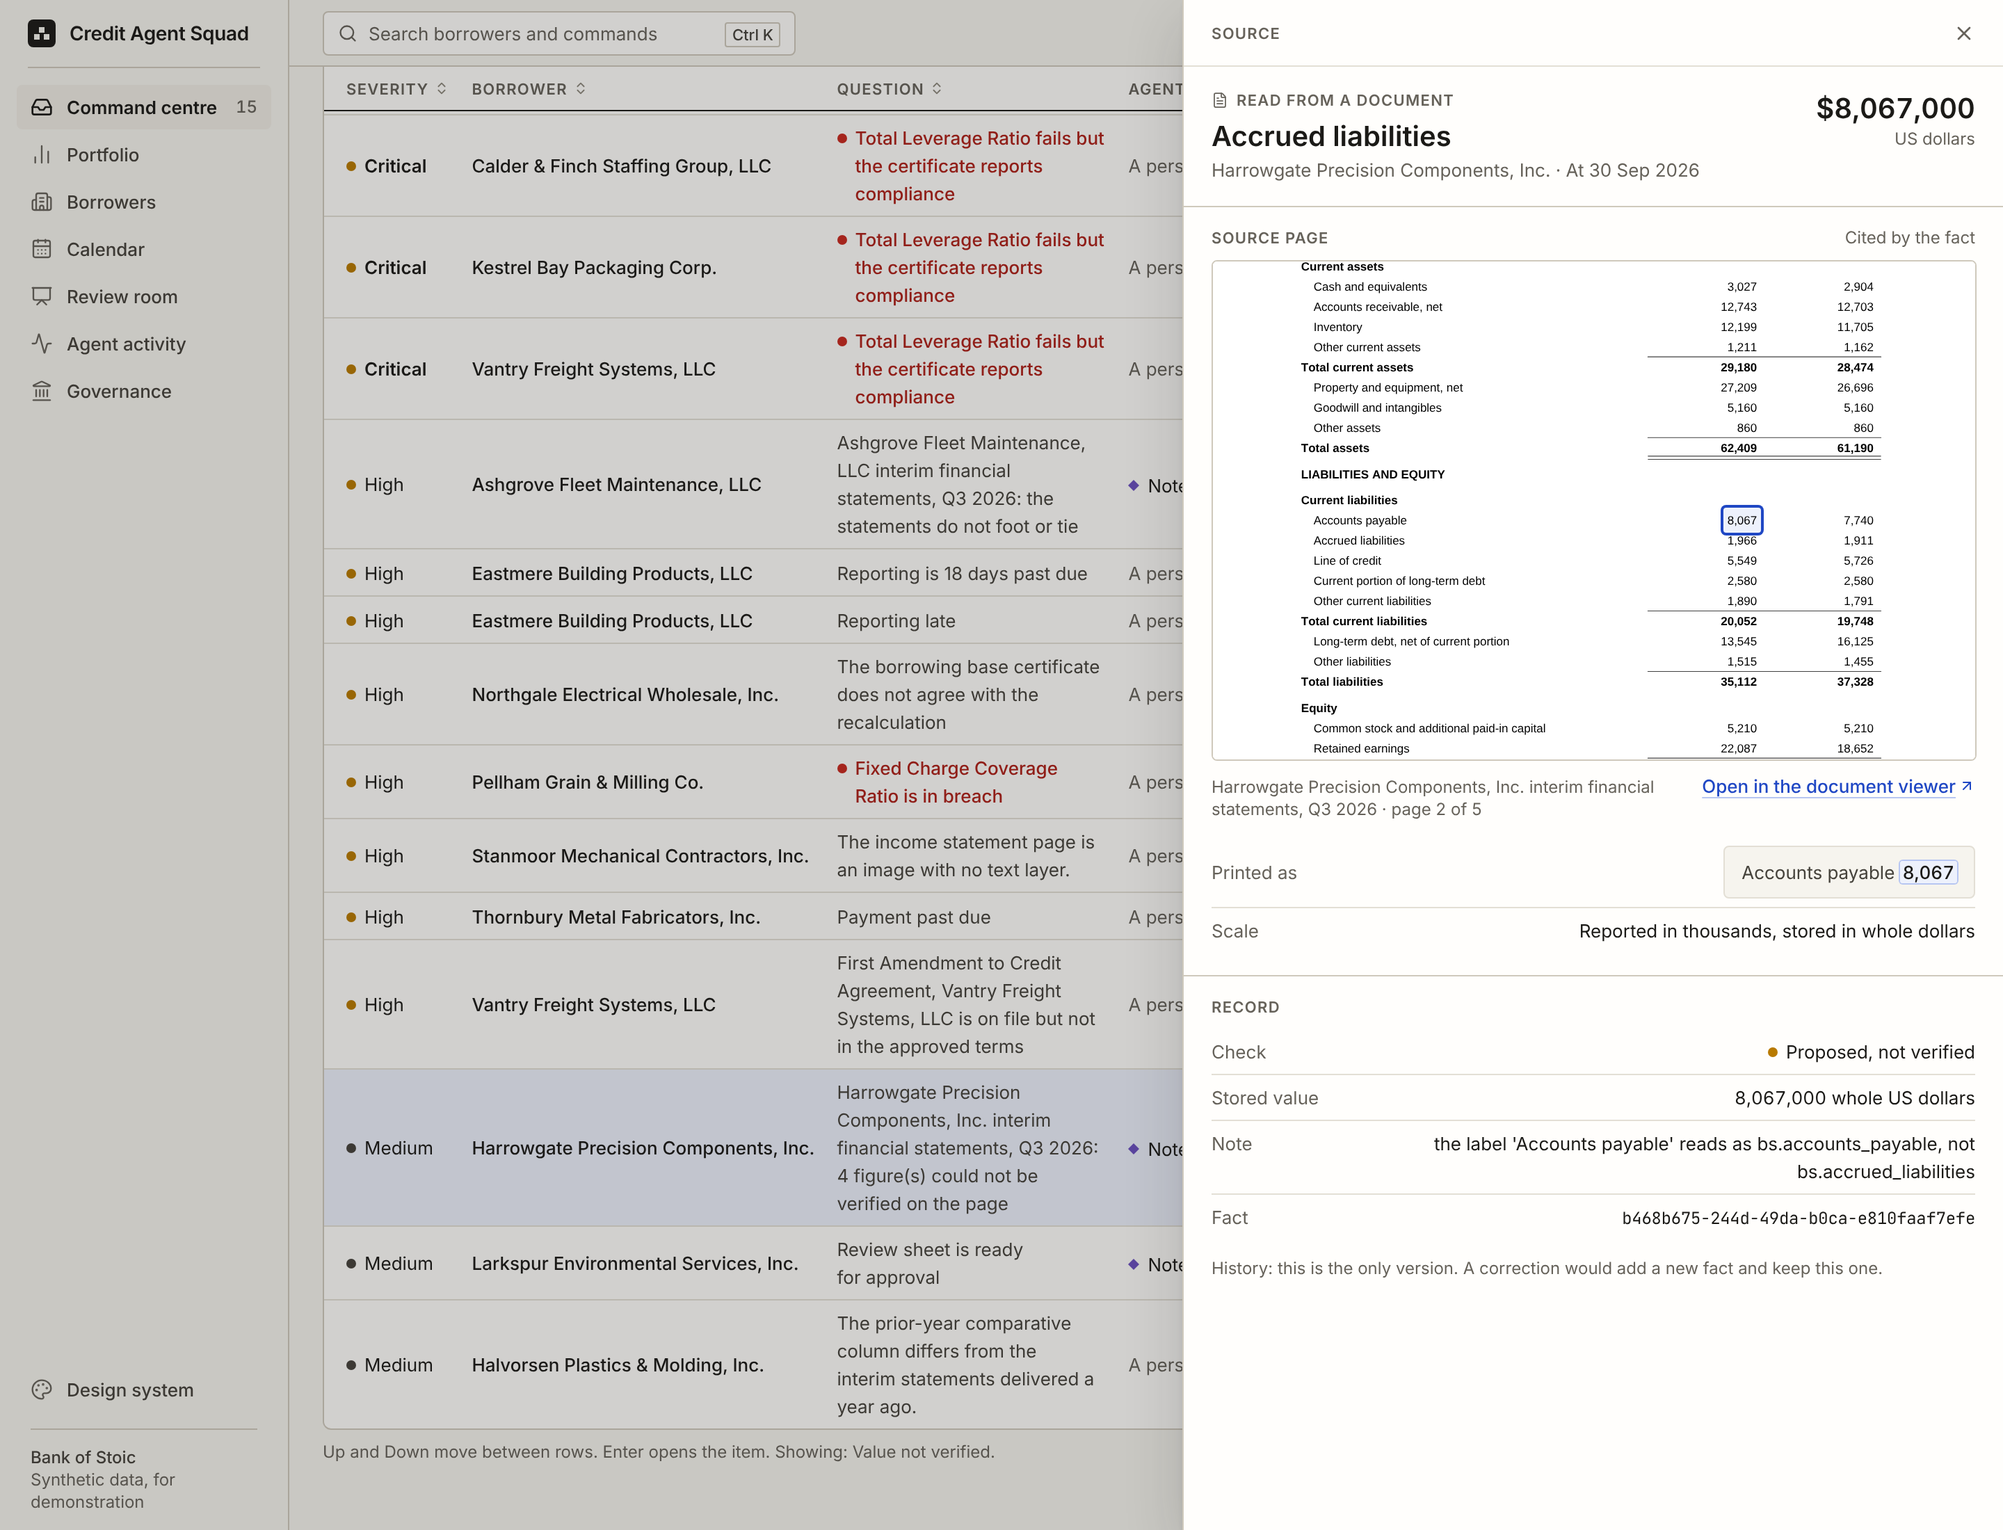
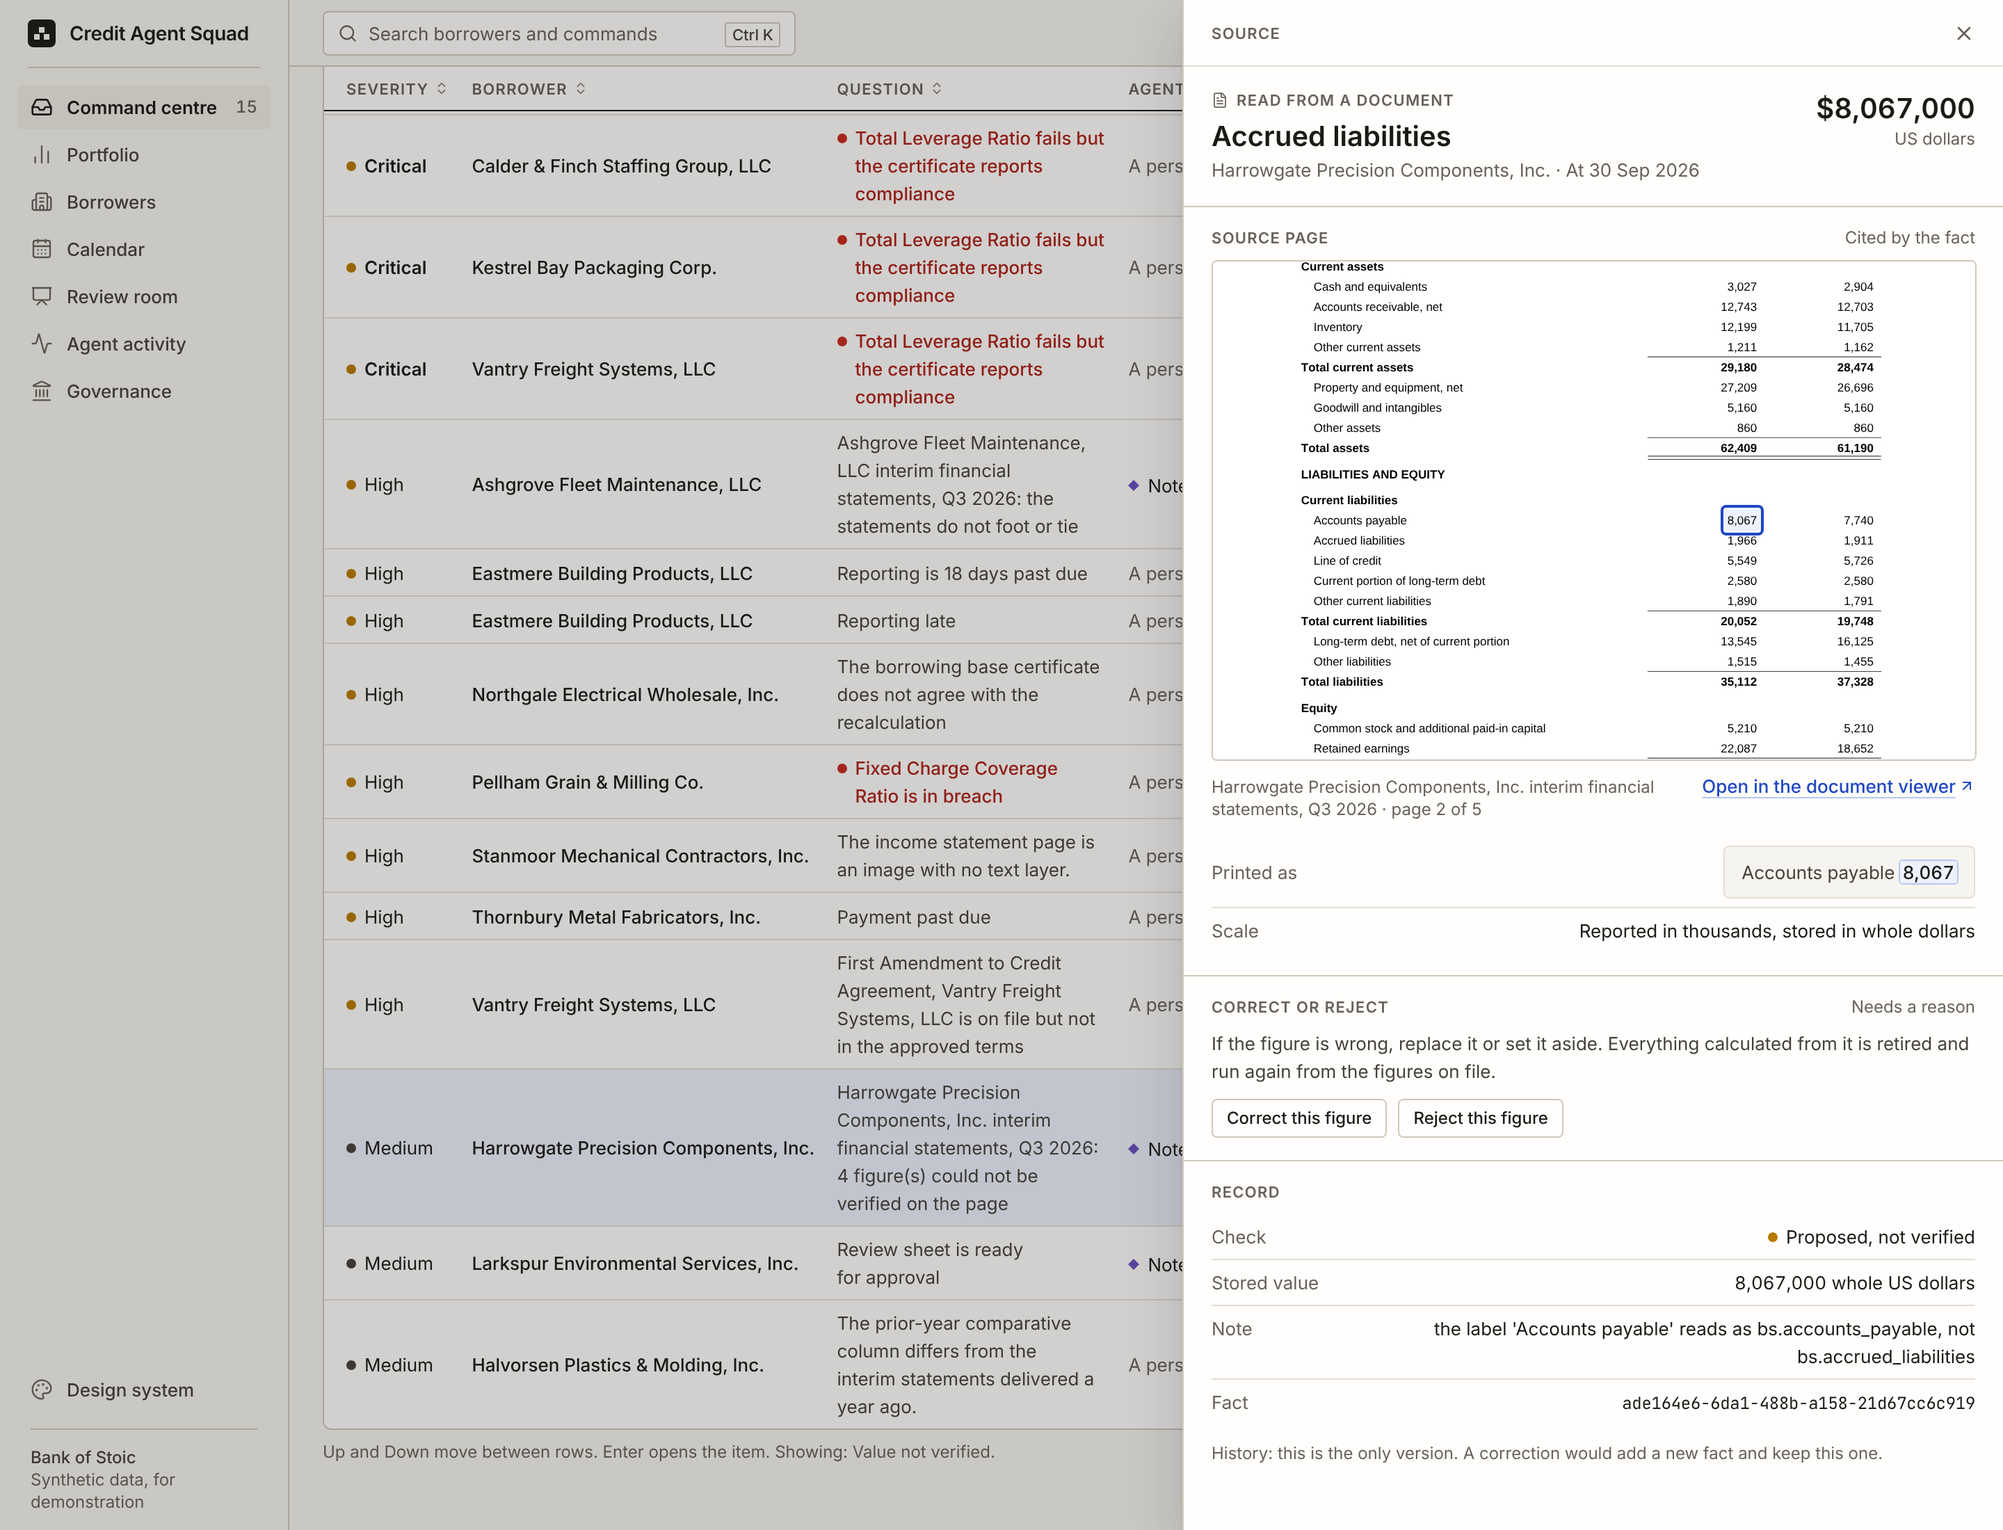
feat(m5): correct or reject a figure from the source drawer
For a person whose role may confirm a spread, the source drawer now offers
"Correct this figure" and "Reject this figure" on the figure it shows, each
with a required reason. A calculated figure offers neither and says "Calculated
by code; correct the figure it was calculated from"; a superseded or rejected
version leads to the figure on file now.

After a correction the drawer shows the new figure (itself a figure with a
source) and what code recalculated, including each covenant whose outcome
changed. Every query is read again, so the screen beneath shows the new figure.

Claude-Session: https://claude.ai/code/session_01LdgDGWNkubuJiXXErhFMLq

Changed region(s): [[0.5938, 0.6491, 1.0, 0.9273], [0.7812, 0.8655, 0.8125, 0.8964], [0.7188, 0.8655, 0.75, 0.8964]]

diff --git a/frontend/src/source/ChangeFigure.test.tsx b/frontend/src/source/ChangeFigure.test.tsx
@@ -1,0 +1,153 @@
+import { QueryClient, QueryClientProvider } from '@tanstack/react-query';
+import { render, screen, within } from '@testing-library/react';
+import userEvent from '@testing-library/user-event';
+import { afterEach, describe, expect, it, vi } from 'vitest';
+import type { FactSource } from '@/api/schema';
+import { ChangeFigure } from './ChangeFigure';
+import { SourceContext, type SourceRef } from './context';
+
+const source = (over: Partial<FactSource['fact']> = {}, history: FactSource['history'] = []): FactSource => ({
+  fact: {
+    id: 'f-tax',
+    key: 'sup.cash_taxes_paid',
+    label: 'Cash paid for income taxes',
+    value: '1089000',
+    unit: 'usd',
+    kind: 'extracted',
+    status: 'verified',
+    period_end: '2026-09-30',
+    months: 9,
+    borrower_id: 'b-1',
+    document_id: 'd-1',
+    page: 5,
+    calc_run_id: null,
+    quote: '1,089',
+    label_text: 'Cash paid for income taxes',
+    scale_as_reported: 1000,
+    connector: null,
+    record_ref: null,
+    as_of: null,
+    entered_by: null,
+    reason: null,
+    note: null,
+    confirmed_by: null,
+    confirmed_at: null,
+    created_at: '2026-11-17T08:00:00',
+    agent_run_id: null,
+    ...over,
+  },
+  borrower: { id: 'b-1', name: 'Halvorsen Plastics & Molding, Inc.', code: 'halvorsen-plastics' },
+  page: null,
+  calculation: null,
+  clause: null,
+  history,
+});
+
+function mockPosts(routes: Record<string, { status?: number; body: unknown }>) {
+  const calls: Array<{ url: string; body: unknown }> = [];
+  vi.stubGlobal(
+    'fetch',
+    vi.fn(async (url: string, init?: RequestInit) => {
+      if (init?.method === 'POST') calls.push({ url, body: JSON.parse(String(init.body)) });
+      const hit = Object.entries(routes).find(([path]) => url.startsWith(path));
+      const status = hit?.[1].status ?? (hit ? 200 : 404);
+      return { ok: status >= 200 && status < 300, status, text: async () => JSON.stringify(hit?.[1].body ?? { detail: 'Not found' }) } as Response;
+    }),
+  );
+  return calls;
+}
+
+function show(data: FactSource, open: (ref: SourceRef) => void = () => {}) {
+  const client = new QueryClient({ defaultOptions: { queries: { retry: false } } });
+  return render(
+    <QueryClientProvider client={client}>
+      <SourceContext.Provider value={{ open, close: () => {}, current: null }}>
+        <ChangeFigure data={data} />
+      </SourceContext.Provider>
+    </QueryClientProvider>,
+  );
+}
+
+afterEach(() => vi.unstubAllGlobals());
+
+describe('correcting or rejecting the figure in the source drawer', () => {
+  it('offers neither for a calculated figure, and says where the correction belongs', () => {
+    show(source({ kind: 'calculated', calc_run_id: 'c-1', document_id: null, page: null }));
+    expect(screen.getByText(/^Calculated by code; correct the figure it was calculated from\./)).toBeInTheDocument();
+    expect(screen.queryByRole('button')).toBeNull();
+  });
+
+  it('offers neither for a superseded version, and leads to the figure on file now', async () => {
+    const open = vi.fn();
+    show(
+      source({ status: 'superseded' }, [
+        { id: 'f-new', value: '4356000', unit: 'usd', kind: 'manual', status: 'confirmed', created_at: '2026-11-17T09:00:00', reason: 'Notes page', relation: 'later', entered_by: 'Priya Raman' },
+        { id: 'f-tax', value: '1089000', unit: 'usd', kind: 'extracted', status: 'superseded', created_at: '2026-11-17T08:00:00', reason: null, relation: 'this', entered_by: null },
+      ]),
+      open,
+    );
+    expect(screen.getByText('This version is superseded. Only the figure on file now can be corrected or rejected.')).toBeInTheDocument();
+    expect(screen.queryByRole('button', { name: /Correct this figure|Reject this figure/ })).toBeNull();
+    await userEvent.click(screen.getByRole('button', { name: 'Open the figure on file now' }));
+    expect(open).toHaveBeenCalledWith({ type: 'fact', id: 'f-new' });
+  });
+
+  it('records a correction with its reason, then shows the new figure and what was recalculated', async () => {
+    const open = vi.fn();
+    const calls = mockPosts({
+      '/api/v1/facts/f-tax/correct': {
+        body: {
+          id: 'f-new',
+          borrower_id: 'b-1',
+          key: 'sup.cash_taxes_paid',
+          value: '4356000',
+          unit: 'usd',
+          kind: 'manual',
+          status: 'confirmed',
+          period_end: '2026-09-30',
+          months: 9,
+          recalculation: { retired: 19, totals: 'recalculated', metrics: [], covenants: [{ facility_id: 'l-1', period_end: '2026-09-30', covenant_id: 'fccr', before: 'compliant', after: 'breach_reported_compliant' }] },
+        },
+      },
+      '/api/v1/ui/borrowers/b-1/covenants': { body: { tests: [{ covenant_id: 'fccr', covenant_name: 'Fixed Charge Coverage Ratio' }], facts: {} } },
+    });
+    show(source(), open);
+    await userEvent.click(screen.getByRole('button', { name: 'Correct this figure' }));
+    const form = screen.getByRole('form', { name: 'Correct Cash paid for income taxes' });
+    const value = within(form).getByLabelText('Value, in whole US dollars');
+    expect(value).toHaveValue('1089000');
+    await userEvent.clear(value);
+    await userEvent.type(value, '4,356,000');
+    await userEvent.type(within(form).getByLabelText('Reason (required)'), 'Notes page reports nine months.');
+    await userEvent.click(within(form).getByRole('button', { name: 'Record the correction' }));
+
+    expect(await screen.findByText('Corrected. On file now:')).toBeInTheDocument();
+    expect(calls).toEqual([{ url: '/api/v1/facts/f-tax/correct', body: { value: '4356000', reason: 'Notes page reports nine months.' } }]);
+    const note = screen.getByRole('status');
+    expect(note).toHaveTextContent('19 results calculated from the old figure were retired.');
+    expect(await within(note).findByRole('listitem', { name: 'Fixed Charge Coverage Ratio, Q3 2026: Compliant → Breach, reported compliant' })).toBeInTheDocument();
+    // The new figure is itself a figure with a source.
+    await userEvent.click(screen.getByRole('button', { name: '$4,356,000, Cash paid for income taxes. Entered by a person. Show source.' }));
+    expect(open).toHaveBeenCalledWith({ type: 'fact', id: 'f-new' });
+  });
+
+  it('will not send a rejection without a reason, and shows the server’s refusal in its own words', async () => {
+    const calls = mockPosts({ '/api/v1/facts/f-tax/reject': { status: 422, body: { detail: 'a calculated figure cannot be rejected; reject the figure it was calculated from' } } });
+    show(source());
+    await userEvent.click(screen.getByRole('button', { name: 'Reject this figure' }));
+    const form = screen.getByRole('form', { name: 'Reject Cash paid for income taxes' });
+    expect(within(form).queryByLabelText(/^Value/)).toBeNull();
+    const reason = within(form).getByLabelText('Reason (required)');
+    expect(reason).toHaveFocus();
+    await userEvent.click(within(form).getByRole('button', { name: 'Record the rejection' }));
+    expect(reason).toHaveAccessibleDescription('A reason is required. It is recorded in the ledger with your name.');
+    expect(calls).toEqual([]);
+
+    await userEvent.type(reason, 'Read from the wrong column.');
+    await userEvent.click(within(form).getByRole('button', { name: 'Record the rejection' }));
+    expect(await within(form).findByRole('alert')).toHaveTextContent(
+      'Not recorded: the server refused this. The server said: “a calculated figure cannot be rejected; reject the figure it was calculated from”',
+    );
+    expect(calls).toEqual([{ url: '/api/v1/facts/f-tax/reject', body: { reason: 'Read from the wrong column.' } }]);
+  });
+});

diff --git a/frontend/src/source/ChangeFigure.tsx b/frontend/src/source/ChangeFigure.tsx
@@ -1,0 +1,122 @@
+import { useState } from 'react';
+import { useCorrectFact, useRejectFact } from '@/api/hooks';
+import type { FactChange, FactSource } from '@/api/schema';
+import { Button, formatFigure, ProvenanceGlyph, StatusDot } from '@/design';
+import { toFact } from '@/domain/labels';
+import { FigureForm } from '@/repair/FigureForm';
+import { RecalculationNote } from '@/repair/RecalculationNote';
+import { useSource } from './context';
+
+const CORRECTABLE = ['proposed', 'verified', 'confirmed'];
+
+/**
+ * Correct or reject the figure on show, for a person whose role may. A calculated figure offers
+ * neither (the API refuses both): the figure it was calculated from is the one to correct. A
+ * correction never edits the fact: a new fact supersedes it and both stay in the history.
+ */
+export function ChangeFigure({ data }: { data: FactSource }) {
+  const { fact } = data;
+  const source = useSource();
+  const correct = useCorrectFact();
+  const reject = useRejectFact();
+  const [mode, setMode] = useState<'correct' | 'reject' | null>(null);
+  const [result, setResult] = useState<{ kind: 'corrected' | 'rejected'; change: FactChange } | null>(null);
+
+  if (result) {
+    const { change } = result;
+    const shown = toFact({ ...fact, ...change, label: fact.label });
+    return (
+      <div className="space-y-2" data-change-result={result.kind}>
+        {result.kind === 'corrected' ? (
+          <p className="flex flex-wrap items-baseline gap-x-1.5 text-body">
+            <StatusDot tone="pass">Corrected. On file now:</StatusDot>
+            <button
+              type="button"
+              aria-label={`${formatFigure(shown.value, shown.unit).text}, ${fact.label}. Entered by a person. Show source.`}
+              onClick={() => source.open({ type: 'fact', id: change.id })}
+              className="-mx-1 inline-flex items-center gap-1 rounded-xs px-1 font-medium text-ink t-colors hover:bg-cobalt-bg hover:text-cobalt-strong"
+            >
+              <span className="tnum">{formatFigure(shown.value, shown.unit).text}</span>
+              <ProvenanceGlyph kind="manual" />
+            </button>
+          </p>
+        ) : (
+          <p className="text-body">
+            <StatusDot tone="neutral">Rejected. This figure is set aside and nothing calculated from it stays in use.</StatusDot>
+          </p>
+        )}
+        <p className="text-caption text-pretty text-ink-500">The earlier figure is kept in the history below. Every screen now reads the figures on file again.</p>
+        <RecalculationNote recalculation={change.recalculation} borrowerId={data.borrower.id} subject={result.kind === 'corrected' ? 'the old figure' : 'this figure'} />
+      </div>
+    );
+  }
+
+  if (fact.kind === 'calculated') {
+    return (
+      <p className="text-body text-pretty text-ink-700" data-change-unavailable>
+        Calculated by code; correct the figure it was calculated from. Each input of the calculation above opens its own source.
+      </p>
+    );
+  }
+
+  if (!CORRECTABLE.includes(fact.status)) {
+    const later = data.history.find((entry) => entry.relation === 'later' && CORRECTABLE.includes(entry.status));
+    return (
+      <div className="space-y-2" data-change-unavailable>
+        <p className="text-body text-pretty text-ink-700">This version is {fact.status}. Only the figure on file now can be corrected or rejected.</p>
+        {later ? (
+          <Button size="sm" onClick={() => source.open({ type: 'fact', id: later.id })}>
+            Open the figure on file now
+          </Button>
+        ) : null}
+      </div>
+    );
+  }
+
+  const scale = data.page?.scale ?? fact.scale_as_reported ?? undefined;
+  return (
+    <div className="space-y-2.5">
+      {mode === null ? (
+        <>
+          <p className="text-body text-pretty text-ink-700">If the figure is wrong, replace it or set it aside. Everything calculated from it is retired and run again from the figures on file.</p>
+          <div className="flex flex-wrap gap-2">
+            <Button size="sm" onClick={() => (correct.reset(), setMode('correct'))}>
+              Correct this figure
+            </Button>
+            <Button size="sm" onClick={() => (reject.reset(), setMode('reject'))}>
+              Reject this figure
+            </Button>
+          </div>
+        </>
+      ) : null}
+      {mode === 'correct' ? (
+        <FigureForm
+          title={`Correct ${fact.label}`}
+          unit={fact.unit}
+          initialValue={fact.value}
+          scale={scale ?? undefined}
+          submitLabel="Record the correction"
+          pendingLabel="Recording"
+          pending={correct.isPending}
+          error={correct.error}
+          reasonHint="Recorded in the ledger with your name. This figure is kept and marked superseded."
+          onCancel={() => setMode(null)}
+          onSubmit={({ value, reason }) => correct.mutate({ factId: fact.id, value, reason }, { onSuccess: (change) => (setMode(null), setResult({ kind: 'corrected', change })) })}
+        />
+      ) : null}
+      {mode === 'reject' ? (
+        <FigureForm
+          title={`Reject ${fact.label}`}
+          withValue={false}
+          submitLabel="Record the rejection"
+          pendingLabel="Recording"
+          pending={reject.isPending}
+          error={reject.error}
+          reasonHint="Recorded in the ledger with your name. The line has no figure until one is keyed or read again."
+          onCancel={() => setMode(null)}
+          onSubmit={({ reason }) => reject.mutate({ factId: fact.id, reason }, { onSuccess: (change) => (setMode(null), setResult({ kind: 'rejected', change })) })}
+        />
+      ) : null}
+    </div>
+  );
+}

diff --git a/frontend/src/source/SourceDrawer.tsx b/frontend/src/source/SourceDrawer.tsx
@@ -7,10 +7,12 @@ import { mul } from '@/api/decimal';
 import { useCalculation, useFactSource, useQuoteLocation } from '@/api/hooks';
 import type { FactSource, SourcePage } from '@/api/schema';
 import type { ProvenanceKind, Unit } from '@/api/types';
+import { useAuth } from '@/auth/context';
 import { Button, formatDate, formatFigure, provenance, ProvenanceGlyph, Quote, Skeleton, StatusDot, type StatusTone } from '@/design';
 import { docTypeLabel, formatTimestamp, periodLabel, toFact } from '@/domain/labels';
 import { cx } from '@/lib/cx';
 import { CalculationBreakdown } from './CalculationBreakdown';
+import { ChangeFigure } from './ChangeFigure';
 import { SourceContext, useSource, type SourceRef } from './context';
 import { PdfPage } from './PdfPage';
 
@@ -132,6 +134,7 @@ function factFormat(unit: Unit) {
 function FactView({ id, onNavigate }: { id: string; onNavigate: () => void }) {
   const { data, isPending, error } = useFactSource(id);
   const source = useSource();
+  const { can } = useAuth();
   if (isPending) return <LoadingBody label="Loading the source of this figure" />;
   if (error || !data) return <ErrorBody message={errorMessage(error)} />;
   const { fact, page, calculation, clause } = data;
@@ -229,6 +232,12 @@ function FactView({ id, onNavigate }: { id: string; onNavigate: () => void }) {
             <Row label="Entered by">{fact.entered_by ?? 'Not recorded'}</Row>
             <Row label="When">{formatTimestamp(fact.created_at)}</Row>
           </dl>
+        </Section>
+      ) : null}
+
+      {can('confirm_spread') ? (
+        <Section title="Correct or reject" note={fact.kind === 'calculated' ? undefined : 'Needs a reason'}>
+          <ChangeFigure data={data} />
         </Section>
       ) : null}
 
